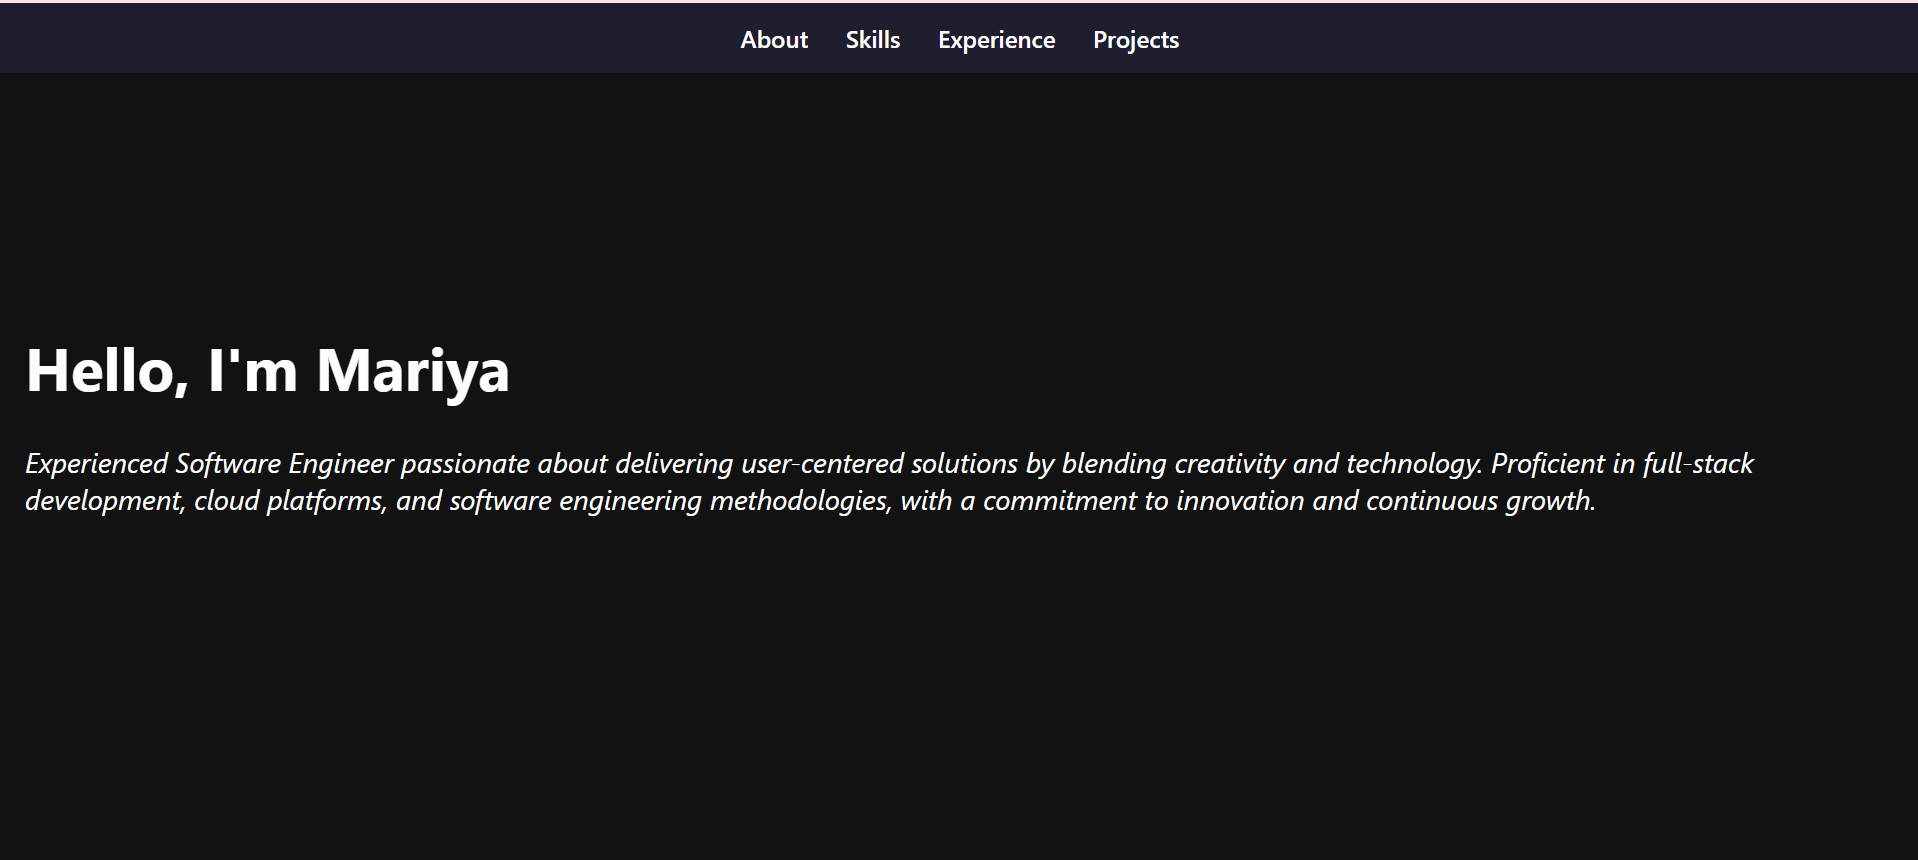
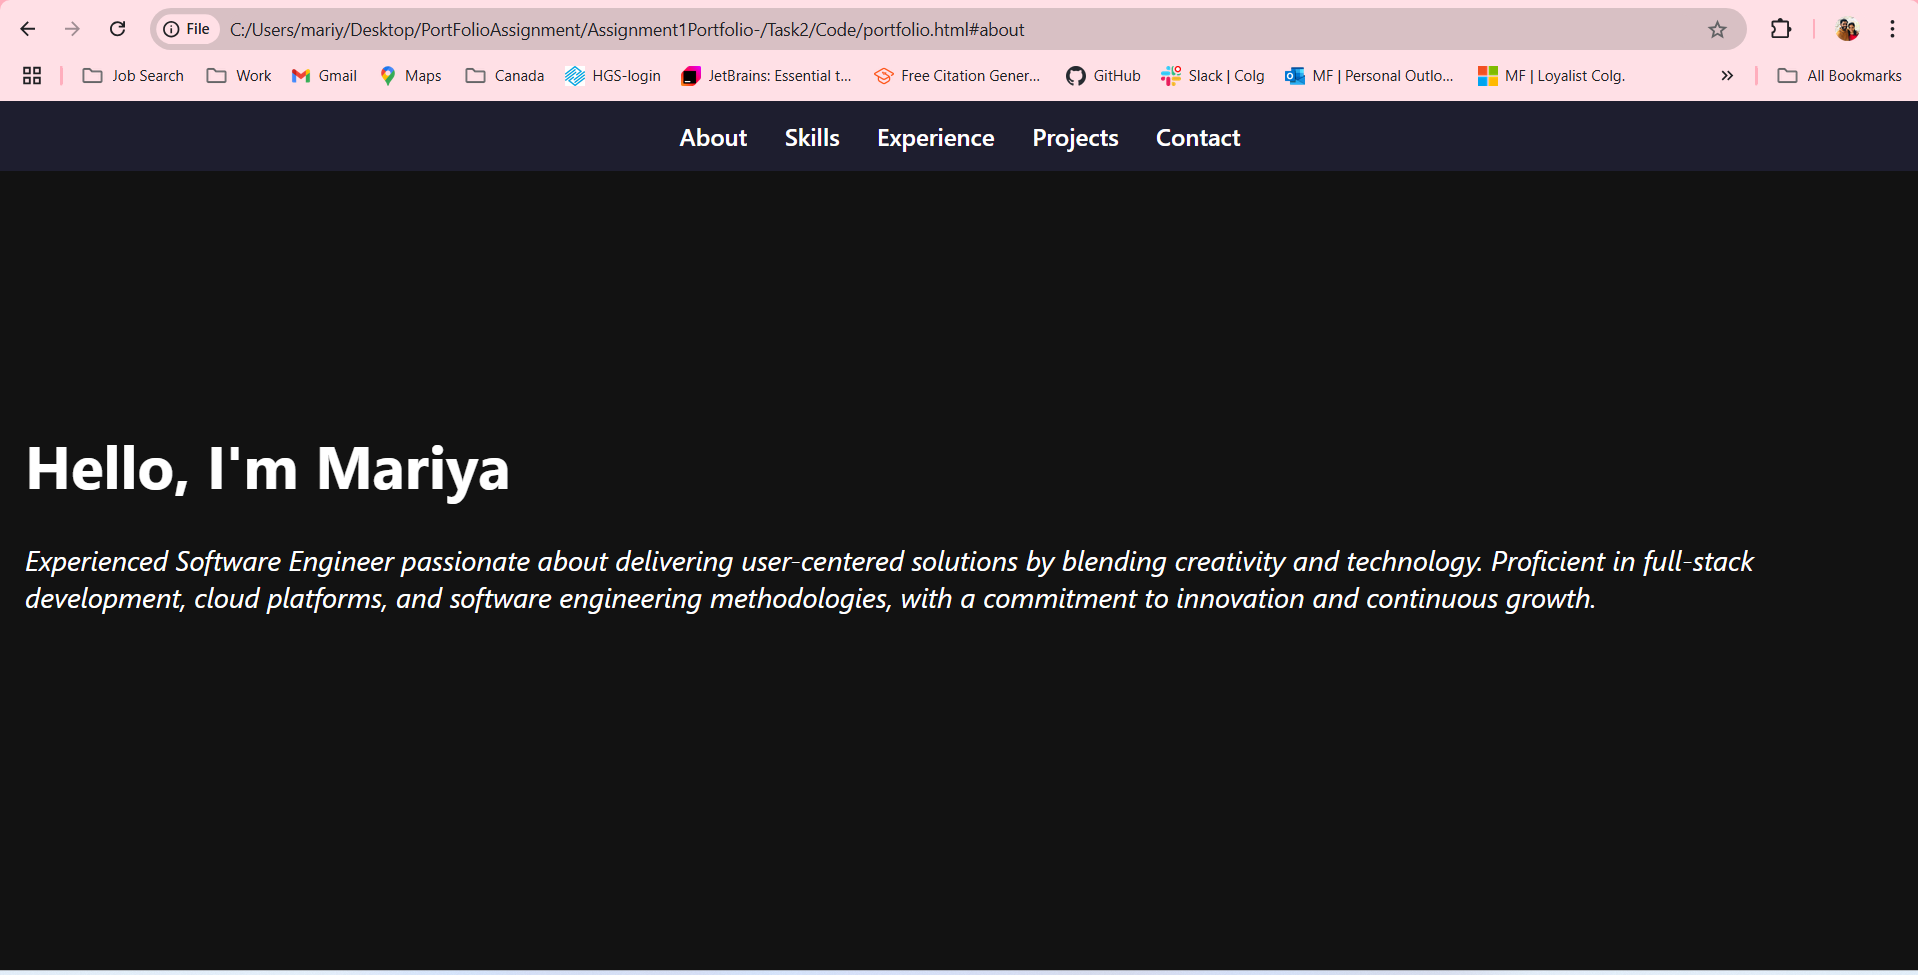
Task3

Changed region(s): [[0.0, 0.0, 1.0, 0.1814], [0.0, 0.393, 0.9228, 0.6349], [0.0, 0.9674, 1.0, 1.0]]

diff --git a/Task2/Code/portfolio.html b/Task2/Code/portfolio.html
@@ -7,7 +7,6 @@
     <title>Mariya's Portfolio</title>
 
     <link rel="stylesheet" href="style.css">
-
 </head>
 
 <body>
@@ -17,10 +16,10 @@
         <a href="#skills" onclick="showSection('skills')">Skills</a>
         <a href="#experience" onclick="showSection('experience')">Experience</a>
         <a href="#projects" onclick="showSection('projects')">Projects</a>
+        <a href="#contact" onclick="showSection('contact')">Contact</a>
     </nav>
 
     <div id="about">
-
         <div class="head">
             <h1>Hello, I'm Mariya</h1>
         </div>
@@ -29,7 +28,6 @@
             technology. Proficient in full-stack development, cloud platforms, and software engineering methodologies,
             with a commitment to innovation and continuous growth.
         </div>
-
     </div>
 
     <div id="skills">
@@ -104,12 +102,24 @@
         </div>
     </div>
 
+    <div id="contact">
+        <div class="head">
+            <h1>Contact</h1>
+        </div>
+        <div class="contact-details">
+            <p>Phone: 437-567-8901</p>
+            <p>Email: <a href="mailto:mariya_francis@outlook.com">mariya@example.com</a></p>
+            <p>LinkedIn: <a href="https://www.linkedin.com/in/mariyafrancis/" target="_blank">linkedin.com/in/mariya</a></p>
+        </div>
+    </div>
+
     <script>
         function showSection(section) {
             document.getElementById("about").style.display = "none";
             document.getElementById("skills").style.display = "none";
             document.getElementById("experience").style.display = "none";
             document.getElementById("projects").style.display = "none";
+            document.getElementById("contact").style.display = "none";
 
             if (section === "about") {
                 document.getElementById(section).style.display = "flex";

diff --git a/Task2/Code/style.css b/Task2/Code/style.css
@@ -52,7 +52,7 @@ nav a:hover {
 
 #skills,
 #experience,
-#projects {
+#projects, #contact{
     display: none;
 }
 
@@ -74,6 +74,11 @@ nav a:hover {
     align-items: center;
     justify-content: center;
     min-height: 100px;
+}
+#contact {
+    align-items: center;
+    justify-content: center;
+    text-align: center;
 }
 
 #experience .experience-section {

diff --git a/README.md b/README.md
@@ -1,2 +1,22 @@
-# Assignment1Portfolio-
-Assignment1 - Emerging Dev. Technologies
+# Mariya's Portfolio
+Welcome to my portfolio built using React. This portfolio  includes sections like "About", "Skills", "Experience", "Projects", and "Contact".
+
+Prerequisites
+Node.js 
+npm 
+
+Installation Steps
+
+Clone this repository to your local machine :  git clone https://github.com/MariyaBenson/Assignment1Portfolio-.git
+Navigate to the Project Folder: cd Assignment1Portfolio-\Task3\Code\myproject
+Install Dependencies: npm install
+Run the project : npm start
+
+Technologies used:
+
+React: Front-end library for building UI components.
+JavaScript: For implementing dynamic functionality.
+CSS:  styles for layout and design.
+HTML: Provides the structure.
+
+
